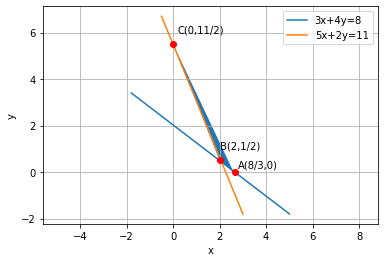
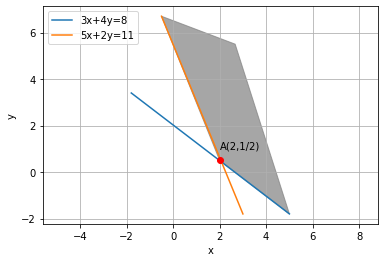
Add files via upload

Changed region(s): [[0.4062, 0.0611, 0.75, 0.8244], [0.125, 0.0305, 0.375, 0.1832], [0.7188, 0.0305, 0.9688, 0.1832]]

diff --git a/ASSIGNMENT10/assignment10.py b/ASSIGNMENT10/assignment10.py
@@ -60,17 +60,13 @@ CD=line_gen(C,D)
 plt.plot(CD[0,:],CD[1,:],label='5x+2y=11')
 
 #Shading Required Region
-x1=[0,2,2.6]
-y1=[5.5,0.5,0]
-plt.fill(x1,y1)
+x1=[C[0],8/3,A[0],2]
+y1=[C[1],11/2,A[1],1/2]
+plt.fill(x1,y1,color="gray",alpha=0.7)
 
 #Labelling points
-plt.plot(8/3,0,'o',color='r')
-plt.text(2.8,0.2,'A(8/3,0)')
 plt.plot(2,1/2,'o',color='r')
-plt.text(2,1,'B(2,1/2)')
-plt.plot(0,11/2,'o',color='r')
-plt.text(0.2,6,'C(0,11/2)')
+plt.text(2,1,'A(2,1/2)')
 
 plt.xlabel('x')
 plt.ylabel('y')
